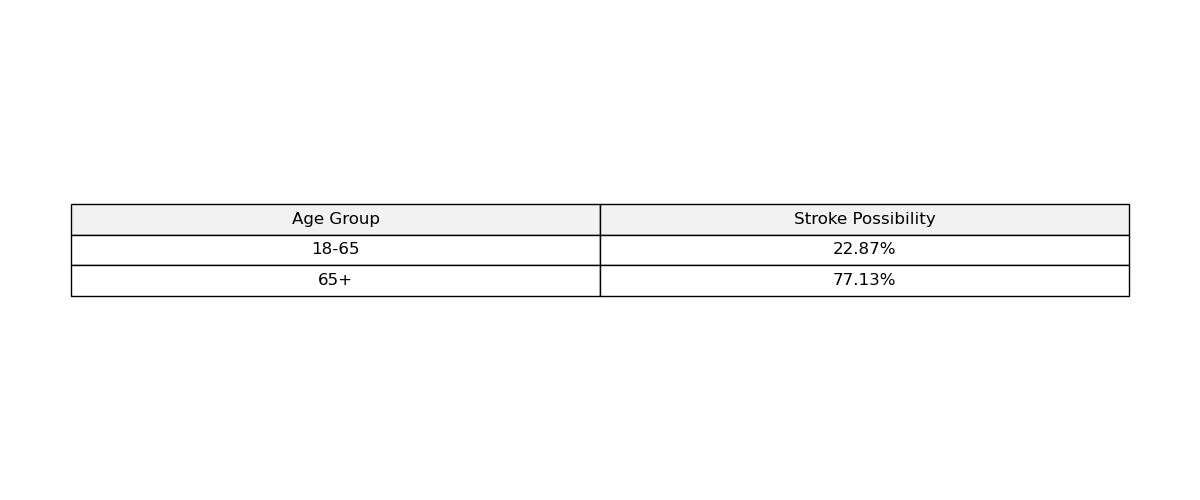
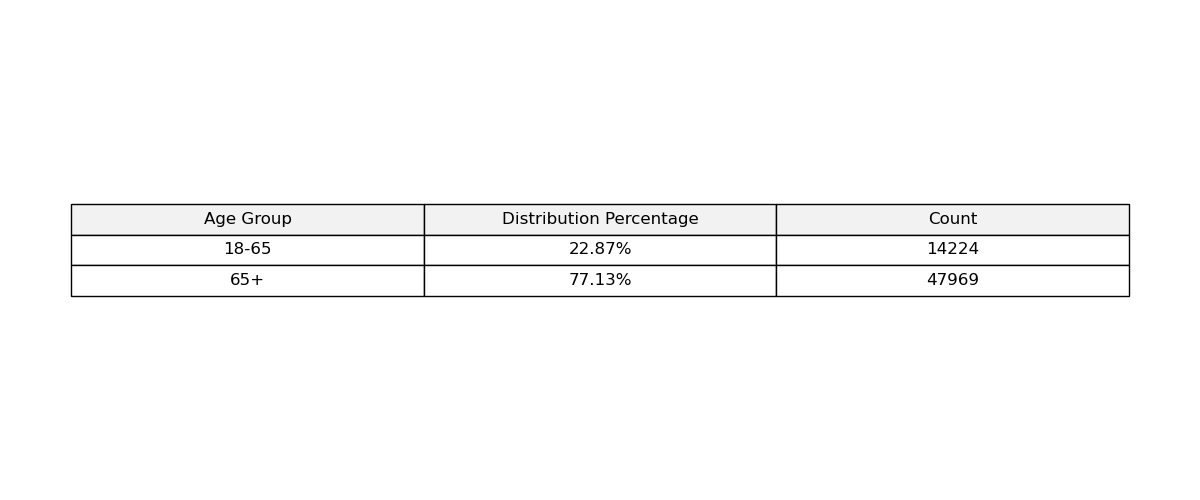
demographics.py changed

diff --git a/src/demographics.py b/src/demographics.py
@@ -118,11 +118,11 @@ def create_tables():
             plt.figure(figsize=(12, 5))
             plt.axis("off")
             ratio_table = plt.table(
-                cellText=ratio_data.values,
-                colLabels=ratio_data.columns,
-                loc="center",
-                cellLoc="center",
-                colColours=["#f2f2f2"] * 2,
+            cellText=ratio_data.values,
+            colLabels=ratio_data.columns,
+            loc="center",
+            cellLoc="center",
+            colColours=["#f2f2f2"] * len(ratio_data.columns),
             )
             ratio_table.auto_set_font_size(False)
             ratio_table.set_fontsize(12)
